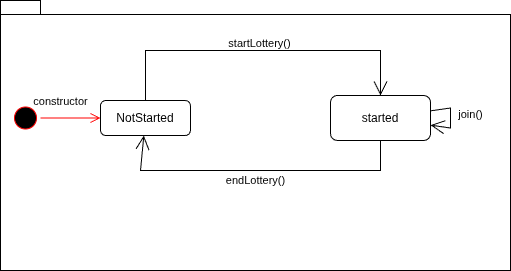
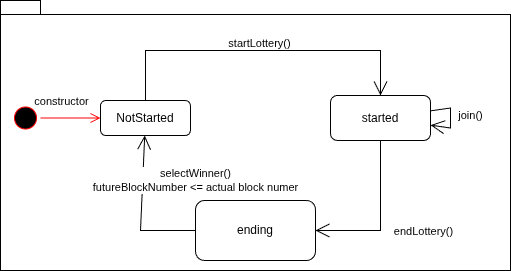
relazione

diff --git a/design/report/main.tex b/design/report/main.tex
@@ -355,8 +355,7 @@ function check_spouse(uint256 index) internal view returns (bool) {
 \end{figure}
 
 Concluso l'esercizio 1 si è anche conclusa la prima iterazione della metodologia Agile, quindi è stato modificato l'UML
-per modellare le specifiche dell'esercizio 2. % TODO: aggiungere UML
-% TODO: spiegare prima la metodologia agile
+per modellare le specifiche dell'esercizio 2.
 
 Con le nuove specifiche deve essere possibile spostare la tax allowance da uno sposo ad un altro, però vincolando
 che la somma delle due sia uguale a alla somma delle due taxallowance al tempo dl matrimonio.
@@ -382,6 +381,8 @@ Come mostrato in figura \ref{code:marry2}
 la nuova implementazione del metodo marry permette di salvarsi la quantità massima di tax allowance di un intero nucleo familiare.
 
 Viene verificata la correttezza del codice è stato implementato il vincolo con echidna come mostrato in figura \ref{code:V_marry2}.
+
+% TODO: add image
 
 \section{Esercizio 3}
 
@@ -443,6 +444,8 @@ Ovviamente se un Taxpayer aumenta la tax allowance allora bisogna aggiornare il 
 
 Tutti i casi sono stati controllati con un altra invariante, non inserita nel report poichè è troppo grande.
 
+% TODO: add image
+
 \section{Esercizio 4}
 
 \subsection{Analisi}
@@ -455,31 +458,88 @@ Tutti i casi sono stati controllati con un altra invariante, non inserita nel re
 
 \begin{figure}[htbp]
 	\centerline{\includegraphics[width=0.50\textwidth]{design/analysis/lottery.png}}
-	\caption{UML State Diagram of the Lottery.}
+	\caption{UML State Diagram of the Lottery. Nella fase nonStarded nessuno può entrare nella lotteria finchè non viene attivata. Nello stato started i Taxpayer
+		possono entrare nella lotteria. Quando la macchina a stati finiti entra nello stato ending allora viene salvato il valore di un blocco futuro. Se quel blocco è arrivato,
+		allora è possibile estrarre il vincitore usando l'hash del blocco in cui è stata fatta la transazione.
+	}
 	\label{uml:lottery}
 \end{figure}
 
-Nella fase di design della metodolia Agile iterazione numero 4, è stata aggiunta la modellazione della Lotteria.
-Una lotteria deve implementare lo standard ERC165, in più deve
-implementare i seguenti metodi: startLottery, commit, endCommit, reveal, endLottery.
+Nella fase di design della metodolia Agile iterazione numero 4, è stata aggiunta la modellazione della Lotteria, come mostrato in figura \ref{uml:agile4}.
+Una lotteria deve implementare i seguenti metodi: startLottery, join, endLottery, selectWinner.
+
+Anche la lotteria ha un owner, che è lo stesso di FactoryTaxpayer.
+
+Lui, essendo il trusted party, può decidere quando far finire, oppure iniziare la lottereia.
+
+Tutti i riferimenti al tempo sono stati rimossi, poichè i validator nella blockchain di Ethereum potrebbero
+controllare quel valore, quindi deve essere responsabilità del trusted party assicurare che avvengano dopo un determinato
+periodo di tempo, usando l'orologio non della blockchain, ma reale.
 
 È stata migliorata l'implementazione in modo che la lotteria non sia "usa e getta", ma invece può essere
-reiniziata quante volte si vuole.
-
-Istanziare uno smart contract può essere molto costoso, quindi rendere una lotteria riusabile è un ottimo
-modo per risparmiare gas.
+reiniziata quante volte si vuole, questo è più gas efficient rispetto a instanziare un nuovo contratto ogni volta.
 
 È stato implementato il design pattern di una macchina a stati finiti.
 Ogni fase è rappresentata da uno stato, dove in un certo stato è possibile fare solo determinate operazioni.
 
-L'owner della lotteria decide in quale stato si deve trovare la lotteria.
+È stato ampliamente modificato il codice della lotteria poichè aveva una limitazione molto importante.
 
-Nella fase `started` i Taxpayer possono fare i loro commit e solo nella fase di `endLottery`
-possono rivelare i loro valori. Questo comportamento viene mostrato nella figura \ref{uml:lottery}. In più ogni lotteria interagisce solo con l'interfaccia ILotteryReceiver, quindi i Taxpayer devono implentare questa interfaccia.
+La "casualità" veniva gestita dai Taxpayer quando fanno i loro commit alla lotteria, ma l'input di un utente non può
+essere fidato.
+
+La blockchain di Ethereum è stata progettata per risolvere questo problema ed avere un sistema molto più affidabile per gestire la casualità.
+
+Quando finisce la lotteria allora non viene decretato subito un vincitore, ma viene salvato in un attributo il numero del blocco dove
+è stata inserita la transazione sommata ad una costante definibile.
+
+Quindi i Taxpayer dovrebbero convincere una buona fetta del network di Ethereum per creare blocchi che abbiano un certo hash
+per invalidare la lotteria, cosa che è poco realistica.
+
+
+Il comportamento viene mostrato nella figura \ref{uml:lottery}.
 
 Questo migliora l'information flow della lotteria, rendendo più difficile per i taxpayer barare.
 
 \subsection{Progettazione}
+
+\begin{figure}
+	\label{code:V_lottery}
+	\centering
+	\begin{lstlisting}[style=soliditystyle]
+function complete_iteration() public {
+        create_lottery();
+        joinAll();
+        endLottery();
+        wait(1 weeks); // NOTE: this make time pass one week
+        selectWinner();
+    }
+
+    function echidna_check_lottery() public view returns (bool) {
+        (address minAddress, uint256 minValue) = getMinWins();
+        (address maxAddress, uint256 maxValue) = getMaxWins();
+
+        if (wins[address(0)] > 0) return false;
+        if (total_ends < 5) return true;
+        return maxValue - minValue < 25;
+    }
+  \end{lstlisting}
+	\caption{getMinWins da il valore di vincite più piccolo della distribuzione, mentre getMaxWins invece il più grande. Così vincolando che dopo
+		tanti turni la varianza deve essere in un certo range.}
+\end{figure}
+
+
+Per vincolare che la lotteria funzioni correttamente bisogna aggiungere il vincolo
+che la varianza delle partite vinte da ogni taxpayer che partecipa deve essere in un certo range.
+
+Il funzionamento è mostrato in figura 11.% \ref{code:V_lottery}.
+
+È stato creato un nuovo contratto di Test diverso da quello precedente. Adesso il flag allContract è false.
+
+Quindi echidna è costretto a chiamare i metodi public solo del contratto di test.
+
+L'unica funzione public è quella che permette ad echidna di fare un intero round di test.
+
+% TODO: add screenshot
 
 \bibliography{bibliography}
 